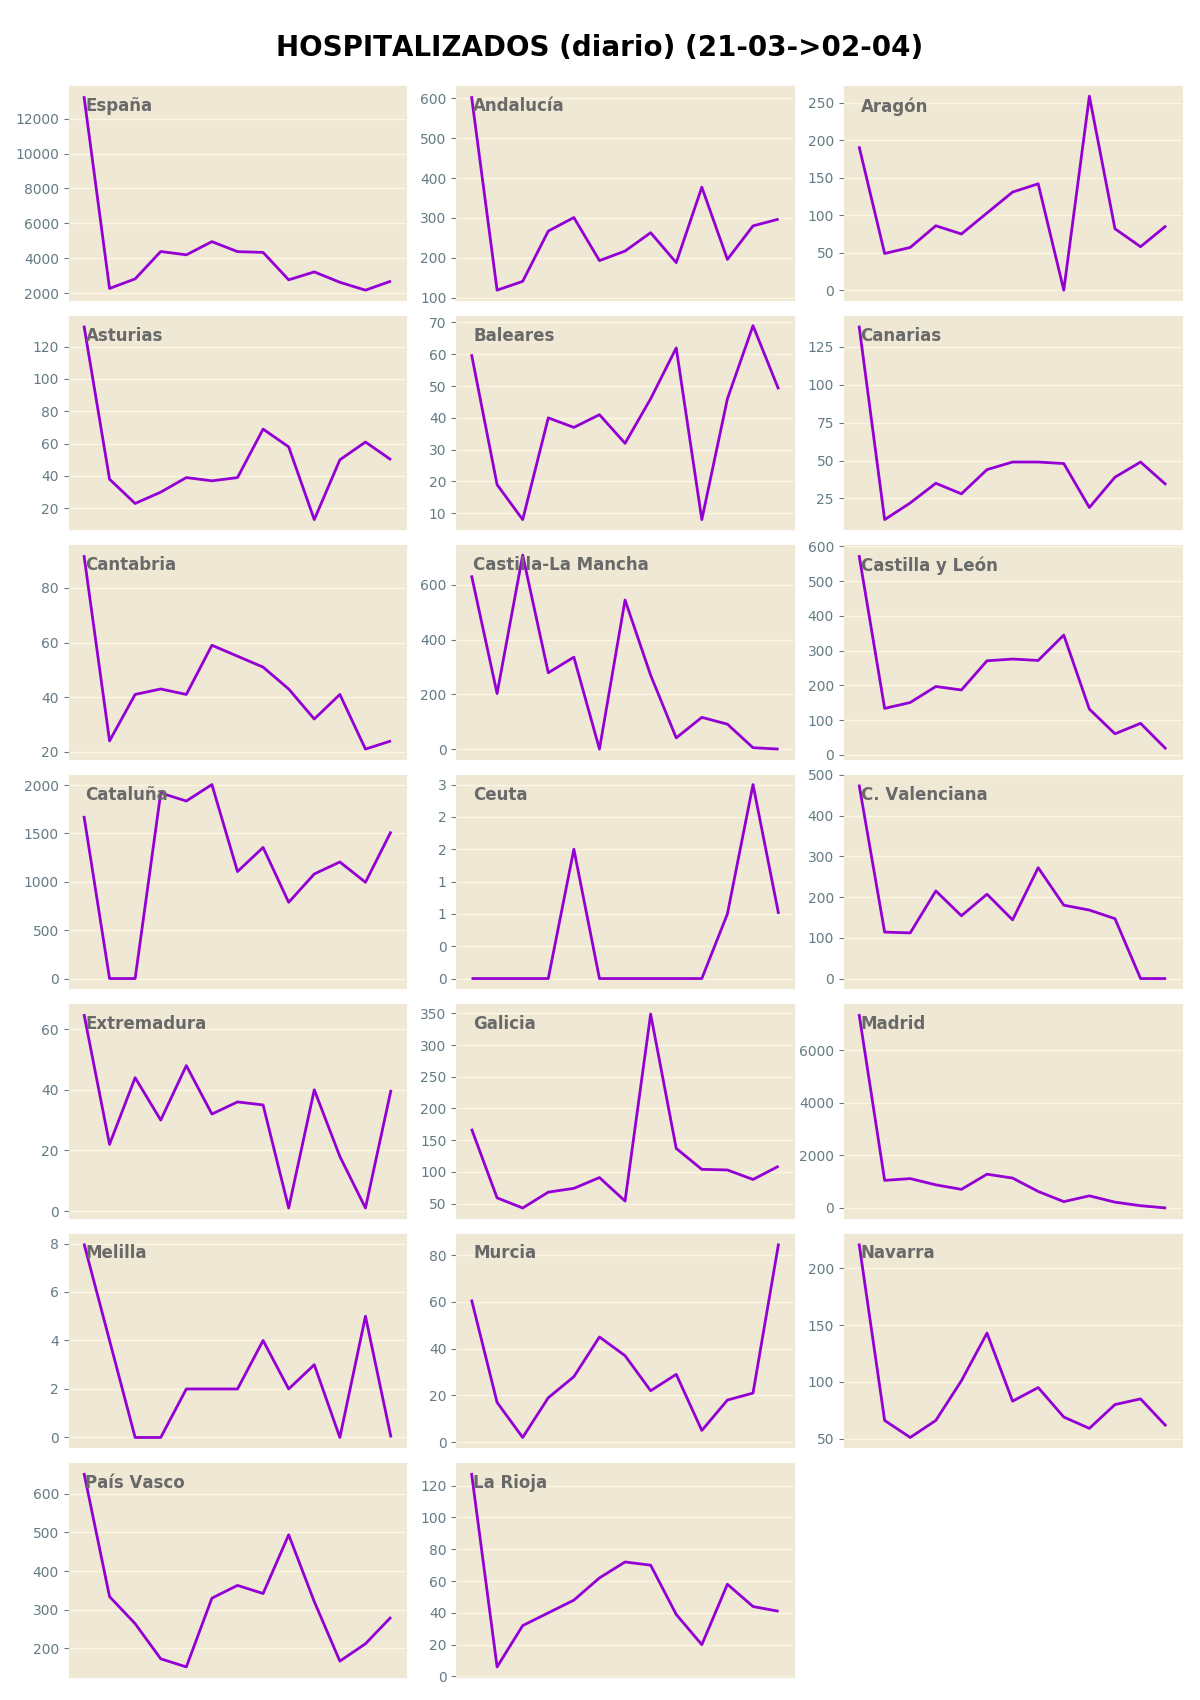
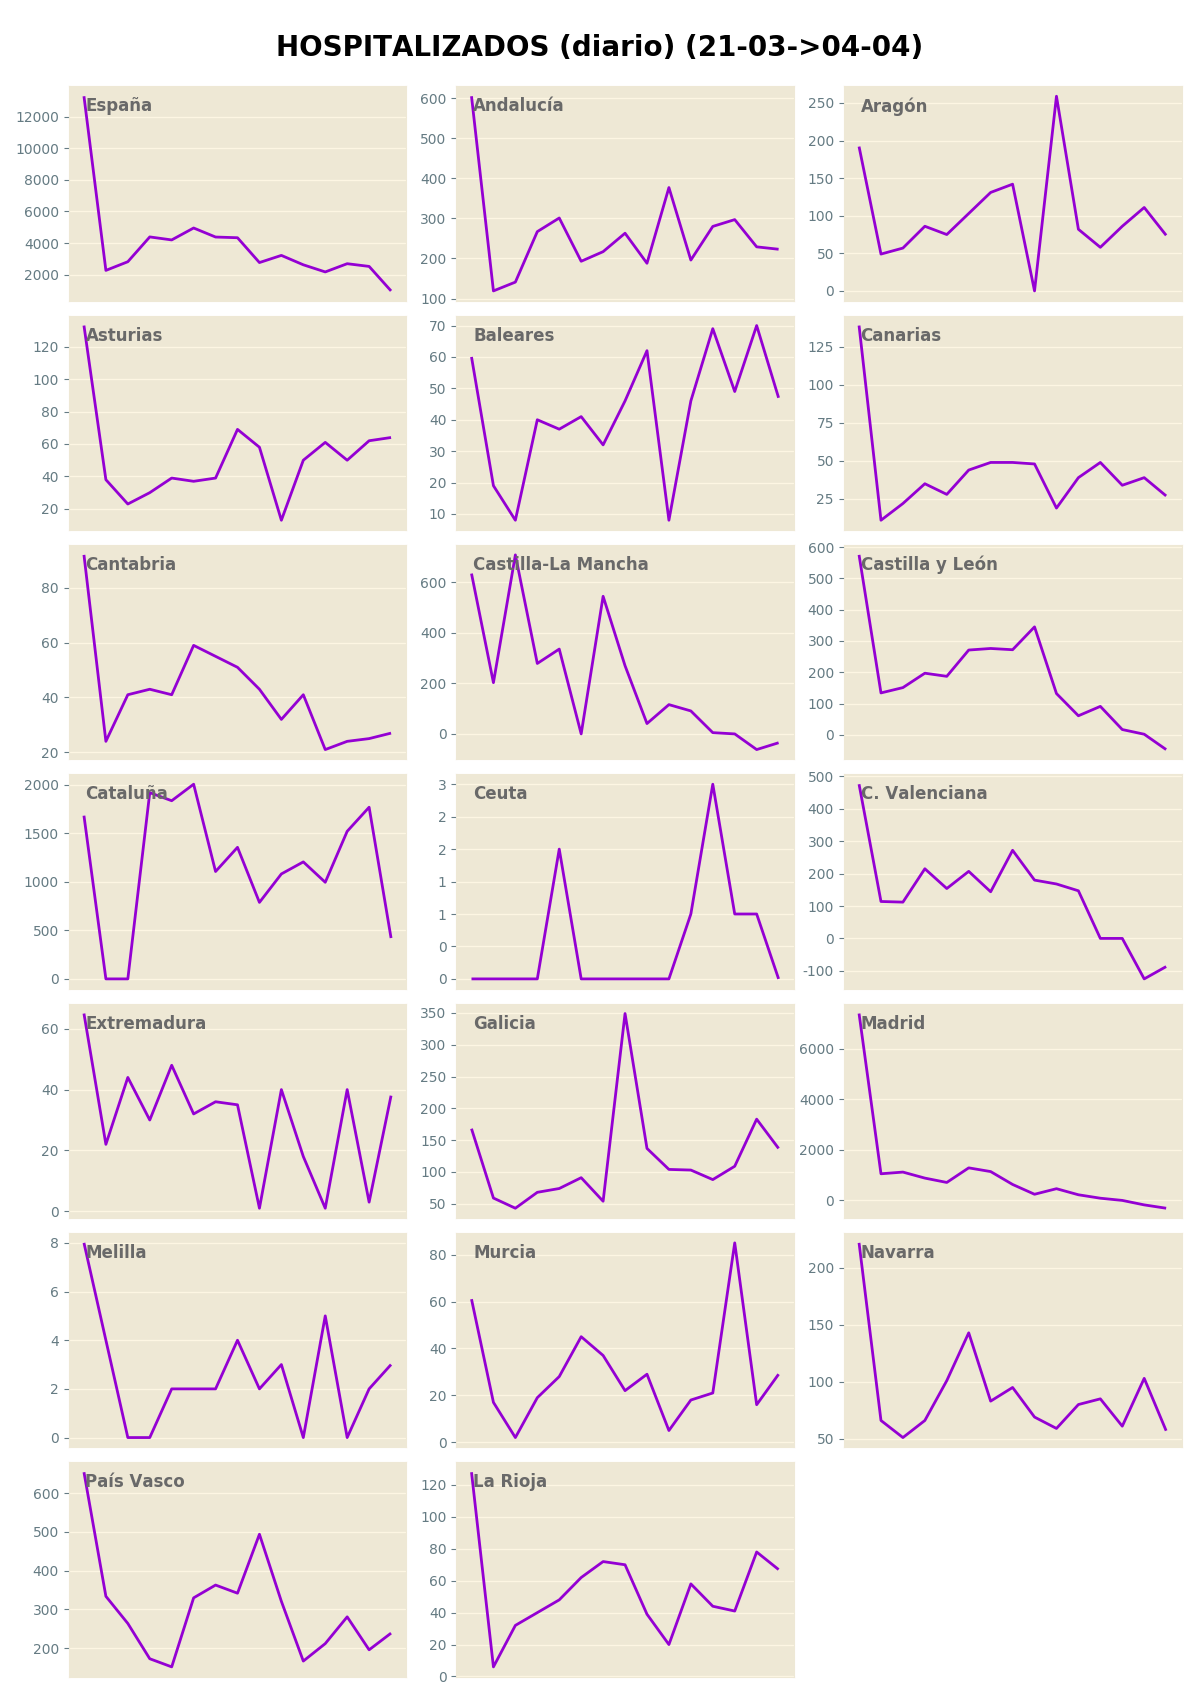
use csv URL

diff --git a/loader_spain.py b/loader_spain.py
@@ -1,5 +1,5 @@
 from enum import Enum
-
+import urllib.request
 
 class Community(Enum):
     ESPANA = {'key': 'Total', 'population': 47026208, 'label': 'España'}
@@ -46,19 +46,22 @@ class Community(Enum):
 
 
 class Data(Enum):
-    CASOS = ('datasets/COVID 19/ccaa_covid19_casos.csv', 'Casos')
-    ALTAS = ('datasets/COVID 19/ccaa_covid19_altas.csv', 'Altas')
-    FALLECIDOS = ('datasets/COVID 19/ccaa_covid19_fallecidos.csv', 'Fallecidos')
-    HOSPITALIZADOS = ('datasets/COVID 19/ccaa_covid19_hospitalizados.csv', 'Hospitalizados')
-    UCI = ('datasets/COVID 19/ccaa_covid19_uci.csv', 'Hospitalizados en UCIs')
+    CASOS = ('https://raw.githubusercontent.com/datadista/datasets/master/COVID%2019/ccaa_covid19_casos.csv', 'Casos')  #('datasets/COVID 19/ccaa_covid19_casos.csv', 'Casos')
+    ALTAS = ('https://raw.githubusercontent.com/datadista/datasets/master/COVID%2019/ccaa_covid19_altas.csv', 'Altas')
+    FALLECIDOS = ('https://raw.githubusercontent.com/datadista/datasets/master/COVID%2019/ccaa_covid19_fallecidos.csv', 'Fallecidos')
+    HOSPITALIZADOS = ('https://raw.githubusercontent.com/datadista/datasets/master/COVID%2019/ccaa_covid19_hospitalizados.csv', 'Hospitalizados')
+    UCI = ('https://raw.githubusercontent.com/datadista/datasets/master/COVID%2019/ccaa_covid19_uci.csv', 'Hospitalizados en UCIs')
 
-    def __init__(self, path, label):
+    def __init__(self, url, label):
+        pass
         self.label = label
-        raw = [line.split(',') for line in open(path).readlines()]
+        req = urllib.request.urlopen(url).read().decode()
+        raw = [line.split(',') for line in req.split('\n')]
+
         # list of date strings
         self.__dates = [self.__process_date(date) for date in raw[0][2:]]
         # Community.key -> list of integer values
-        self.__data = {line[1]: list(map(int, line[2:])) for line in raw[1:]}
+        self.__data = {line[1]: list(map(int, line[2:])) for line in raw[1:] if len(line) > 1}
 
     @staticmethod
     def __process_date(date: str):
@@ -80,3 +83,23 @@ class Data(Enum):
             values = [(v/community.population)*float(per_capita_factor) for v in values]
 
         return values
+
+
+if __name__ == '__main__':
+    req = urllib.request.urlopen('https://raw.githubusercontent.com/datadista/datasets/master/COVID%2019/ccaa_covid19_casos.csv').read().decode()
+    raw = [line.split(',') for line in req.split('\n')]
+
+    print(raw)
+    # print(raw[0][2:])
+
+    # print(raw[1:])
+    for line in raw[1:]:
+        if len(line) > 1:
+            print(line)
+
+    # lines = file.split('\n')
+    # for line in lines:
+    #     print(line)
+    # lines = [line for line in file]
+    # for line in lines:
+    #     print(line.split(','))
